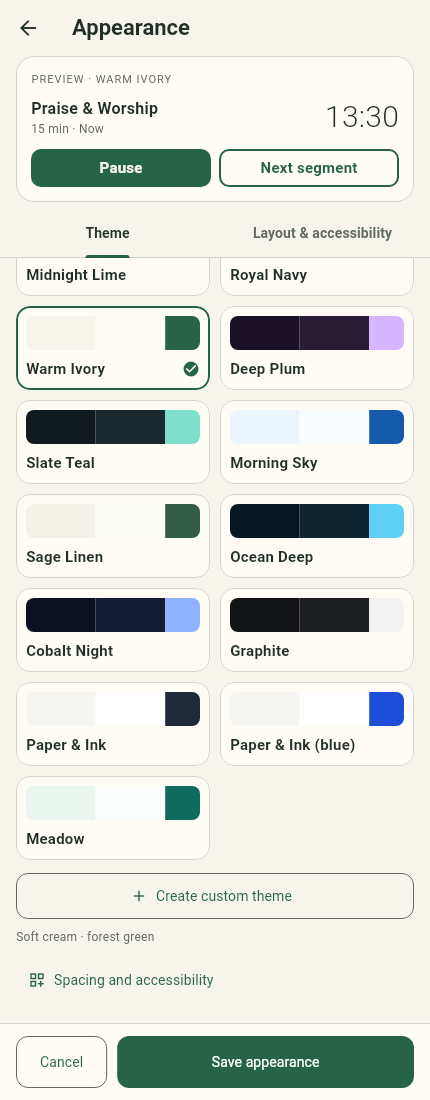
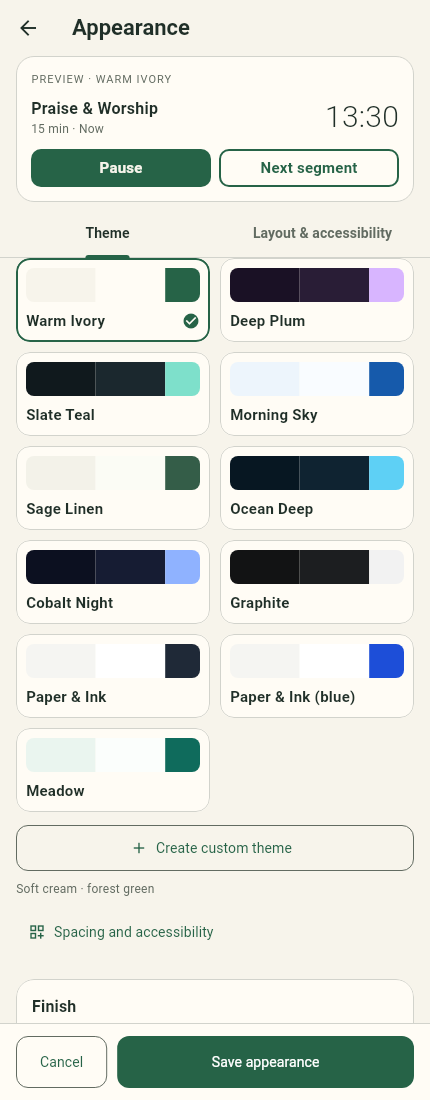
Refresh seventeen screenshots and add twenty-one for 0.37.0

Changed region(s): [[0.0302, 0.2164, 0.9674, 0.9273], [0.9372, 0.7727, 0.9674, 0.8345], [0.0302, 0.68, 0.0605, 0.7109]]

diff --git a/site/assets/images/README.md b/site/assets/images/README.md
@@ -8,6 +8,8 @@ For the 0.35.0 handbook, every file in both tables was compared, pixel for pixel
 
 For the 0.36.0 handbook, every file in both tables was compared, by its pixels, with the preview on the app's main branch (release 0.36.0, cb2602b). Fifteen had changed and were copied again: full-screen-tray-phone.png, full-screen-tray.png, desktop-mission-control.png, desktop-mission-control-large.png, desktop-three-panes.png, desktop-three-panes-1366.png, desktop-dial.png, desktop-keys.png, desktop-ready-keys.png, second-screen-live.png, stage-simulator.png, shortcuts.png, commands.png, desktop-classic-narrow.png and desktop-classic-1024.png. The rest matched. desktop-classic.png, scaled from its preview, was compared after scaling and matched. reports-desktop.png and mini-timer.png are rendered for the handbook and were not rendered again. Five were added: whats-new-notice.png and whats-new-notice-pc.png (the Updated to notice), full-screen-tip-phone.png and full-screen-tip.png (the gestures tip), and send-message-stage.png (Send message with the switch on Stage screen). All were saved without changing a pixel and re-compressed without loss with Pillow. The version in the notice, 0.36.0, is the release itself.
 
+For the 0.37.0 handbook, every file in both tables was compared, by its colour values (red, green, blue and alpha, not only its size), with the preview on the app's main branch (release 0.37.0, 70094f6). Seventeen had changed and were copied again: stage-layout.png, appearance.png, screens-devices.png, full-screen-tray-phone.png, full-screen-tip-phone.png, send-message-stage.png, desktop-three-panes.png, second-screen-live.png, second-screen-settings.png, full-screen-confirm.png, full-screen-tray.png, stage-simulator.png, cue-banner.png, cue-editor-switch.png, default-end-screen-pc.png, full-screen-tip.png and stage-cues-desktop.png. The rest matched. desktop-classic.png, scaled from its preview, was compared after scaling and matched. reports-desktop.png and mini-timer.png are rendered for the handbook; their previews have not changed since 0.36.0, so they were not rendered again. Twenty-one were added, listed in the third table. All were saved without changing a pixel and re-compressed without loss with Pillow.
+
 ## Phone and tablet
 
 | Public filename | Original fixture |
@@ -89,6 +91,32 @@ For the 0.36.0 handbook, every file in both tables was compared, by its pixels, 
 | reports-dates.png | desktop-date-range.png |
 | reports-desktop.png | Rendered for the handbook by the fixture behind desktop-date-range.png (the same sample reports, dated 2026), without the calendar open |
 | mini-timer.png | Rendered for the handbook by the fixture behind mini-timer.png, at twice the pixel density (760 × 300) |
+
+## Added for 0.37.0
+
+| Public filename | Original fixture |
+| --- | --- |
+| flip-clock.png | flip-clock-wide-12h.png |
+| flip-clock-24h.png | flip-clock-wide-24h.png |
+| flip-clock-phone.png | flip-clock-phone-12h.png |
+| layout-timer-only.png | countdown-timer-wide.png |
+| layout-segment-name.png | countdown-current-wide.png |
+| layout-up-next.png | countdown-next-wide.png |
+| layout-up-next-only.png | countdown-only-wide.png |
+| stage-warning.png | countdown-warning-wide.png |
+| stage-overtime.png | countdown-overtime-strong-wide.png |
+| stage-light-theme.png | countdown-light-current-wide.png |
+| layout-tiles.png | layout-tiles-desktop.png |
+| layout-tiles-phone.png | layout-tiles-phone.png |
+| overtime-alert.png | desktop-settings-display-overtime.png |
+| finish-tiles.png | finish/appearance-finish-dark-1366.png |
+| finish-tiles-phone.png | finish/appearance-finish-light-phone.png |
+| finish-console-live.png | finish/live-console-subtle-light-phone.png |
+| finish-denim-live.png | finish/live-denim-subtle-light-phone.png |
+| papery-live.png | finish/papery-paper_ink-full-live-phone.png |
+| papery-appearance.png | finish/papery-appearance-note-paper_ink.png |
+| keep-awake.png | desktop-settings.png |
+| send-message-too-wide.png | send-message-wide-static-stage-phone.png |
 
 ## Adding or replacing an image
 
